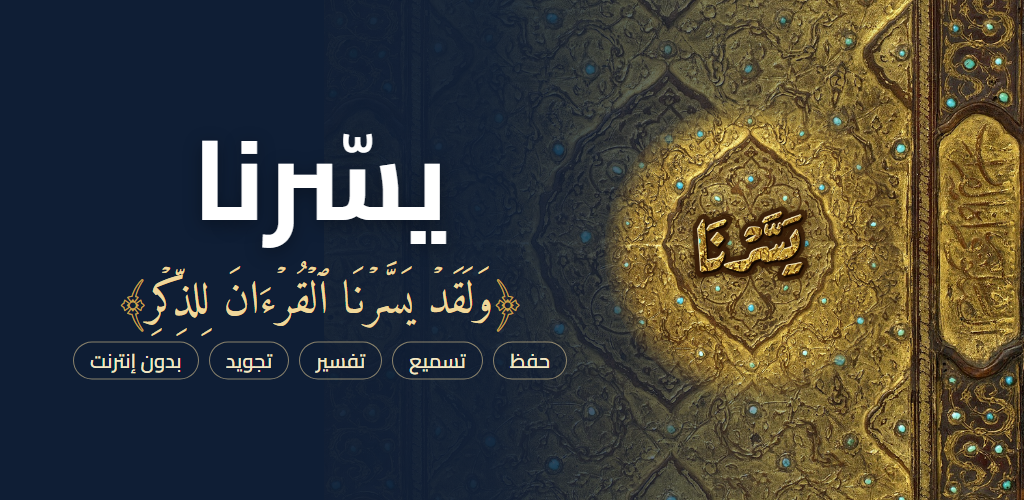
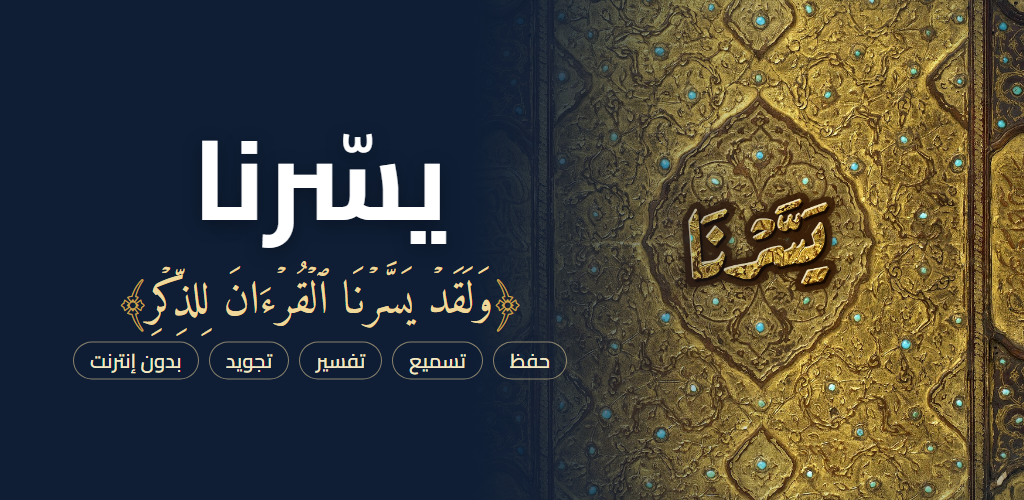
Feature graphic: the real cover fades into the navy (option 3), final for Play
store/fg-options/blend.js b3 -> store/play/feature-graphic-1024x500.png (1024x500, RGB, no alpha).

diff --git a/store/fg-options/b3.html b/store/fg-options/b3.html
@@ -4,9 +4,8 @@
 html,body{margin:0;width:1024px;height:500px;overflow:hidden}body{font-family:Cairo,sans-serif;color:#fff;position:relative;background:#0f1e35}
 .t{position:absolute;display:flex;flex-direction:column;align-items:center}h1{margin:0;font:700 112px/1.05 Cairo;text-shadow:0 4px 18px rgba(0,0,0,.35)}
 .ay{font-family:AmiriQ,serif;color:#f0d79a;font-size:46px;line-height:1.9;margin:4px 0 12px;white-space:nowrap}.ay b{font-weight:400;color:#c9a14a}
-.chips{display:flex;gap:10px;white-space:nowrap}.chips span{border:1.5px solid rgba(240,215,154,.55);color:#f3e7c4;border-radius:999px;padding:2px 16px;font:600 20px/1.6 Cairo;background:rgba(15,30,53,.35)}body{background:url(file:///D:/Quran%20App/quran-karim/store/icon-options/adaptive-1024.png) 100% 50%/700px auto no-repeat,#0f1e35}
-      .tint{position:absolute;inset:0;background:linear-gradient(to right,rgba(15,30,53,.97) 0%,rgba(15,30,53,.94) 48%,rgba(15,30,53,.55) 68%,rgba(15,30,53,0) 88%)}
-      .glow{position:absolute;right:120px;top:50%;width:300px;height:300px;margin-top:-150px;border-radius:50%;
-      background:url(file:///D:/Quran%20App/quran-karim/store/icon-options/icon-1024.png) center/cover;-webkit-mask-image:radial-gradient(circle,#000 58%,transparent 72%);mask-image:radial-gradient(circle,#000 58%,transparent 72%)}</style>
-      <div class="tint"></div><div class="glow"></div><div class="t" style="left:40px;top:50%;transform:translateY(-50%);width:560px"><h1>يسّرنا</h1><div class="ay"><b>﴿</b>وَلَقَدۡ يَسَّرۡنَا ٱلۡقُرۡءَانَ لِلذِّكۡرِ<b>﴾</b></div>
+.chips{display:flex;gap:10px;white-space:nowrap}.chips span{border:1.5px solid rgba(240,215,154,.55);color:#f3e7c4;border-radius:999px;padding:2px 16px;font:600 20px/1.6 Cairo;background:rgba(15,30,53,.35)}body{background:url(file:///D:/Quran%20App/quran-karim/store/icon-options/adaptive-fg-1024.png) right -40px center/600px auto no-repeat,#0f1e35}
+      .tint{position:absolute;inset:0;background:linear-gradient(to right,rgba(15,30,53,1) 0%,rgba(15,30,53,1) 46%,rgba(15,30,53,.75) 56%,rgba(15,30,53,.25) 68%,rgba(15,30,53,0) 78%)}
+      .vig{position:absolute;inset:0;background:radial-gradient(40% 75% at 76% 50%,transparent 60%,rgba(15,30,53,.55) 100%)}</style>
+      <div class="tint"></div><div class="vig"></div><div class="t" style="left:40px;top:50%;transform:translateY(-50%);width:560px"><h1>يسّرنا</h1><div class="ay"><b>﴿</b>وَلَقَدۡ يَسَّرۡنَا ٱلۡقُرۡءَانَ لِلذِّكۡرِ<b>﴾</b></div>
   <div class="chips"><span>حفظ</span><span>تسميع</span><span>تفسير</span><span>تجويد</span><span>بدون إنترنت</span></div></div></body></html>

diff --git a/store/fg-options/blend.js b/store/fg-options/blend.js
@@ -5,7 +5,7 @@ for (const s of ['playwright', '@playwright/test/node_modules/playwright']) { tr
 const R = path.resolve(__dirname, '..', '..'), D = __dirname, U = f => require('url').pathToFileURL(path.join(R, f)).href;
 global.window = global; require(path.join(R, 'web', 'quran-data.js'));
 const AYAH = window.QURAN.t[53][16].split(' ').slice(0, 4).join(' ');
-const ICON = U('store/icon-options/icon-1024.png'), TEX = U('store/icon-options/adaptive-1024.png');
+const ICON = U('store/icon-options/icon-1024.png'), TEX = U('store/icon-options/adaptive-1024.png'), WIDE = U('store/icon-options/adaptive-fg-1024.png');
 const BASE = `@font-face{font-family:Cairo;font-weight:700;src:url(${U('web/fonts/cairo-700.woff2')})}
 @font-face{font-family:Cairo;font-weight:600;src:url(${U('web/fonts/cairo-600.woff2')})}
 @font-face{font-family:AmiriQ;src:url(${U('web/fonts/amiri-quran.woff2')})}
@@ -29,11 +29,10 @@ const V = {
       box-shadow:0 0 0 5px #0f1e35,0 0 0 8px #d9b25a,0 0 0 14px rgba(217,178,90,.18),0 20px 50px rgba(0,0,0,.45)}</style>
       <div class="tex"></div><div class="med"></div>${TXT('left:40px;top:50%;transform:translateY(-50%);width:620px')}`,
   // b3: the cover photo is the whole background, tinted navy on the text side; the medallion with the word stays bright
-  b3: `<style>${BASE}body{background:url(${TEX}) 100% 50%/700px auto no-repeat,#0f1e35}
-      .tint{position:absolute;inset:0;background:linear-gradient(to right,rgba(15,30,53,.97) 0%,rgba(15,30,53,.94) 48%,rgba(15,30,53,.55) 68%,rgba(15,30,53,0) 88%)}
-      .glow{position:absolute;right:120px;top:50%;width:300px;height:300px;margin-top:-150px;border-radius:50%;
-      background:url(${ICON}) center/cover;-webkit-mask-image:radial-gradient(circle,#000 58%,transparent 72%);mask-image:radial-gradient(circle,#000 58%,transparent 72%)}</style>
-      <div class="tint"></div><div class="glow"></div>${TXT('left:40px;top:50%;transform:translateY(-50%);width:560px')}`,
+  b3: `<style>${BASE}body{background:url(${WIDE}) right -40px center/600px auto no-repeat,#0f1e35}
+      .tint{position:absolute;inset:0;background:linear-gradient(to right,rgba(15,30,53,1) 0%,rgba(15,30,53,1) 46%,rgba(15,30,53,.75) 56%,rgba(15,30,53,.25) 68%,rgba(15,30,53,0) 78%)}
+      .vig{position:absolute;inset:0;background:radial-gradient(40% 75% at 76% 50%,transparent 60%,rgba(15,30,53,.55) 100%)}</style>
+      <div class="tint"></div><div class="vig"></div>${TXT('left:40px;top:50%;transform:translateY(-50%);width:560px')}`,
 };
 (async () => {
   const b = await pw.chromium.launch(), pg = await b.newPage({ viewport: { width: 1024, height: 500 } });
